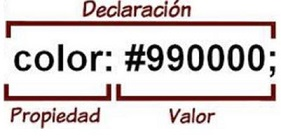
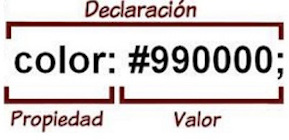
commit 3 PEC2

diff --git a/html.html b/html.html
@@ -138,33 +138,39 @@
           <div class="row">
             <p>Una página HTML se dividirá en bloques que vienen definidos por <strong>etiquetas</strong> y es el
             propio explorador el que es capaz de interpretar las etiquetas para mostrarlas y darle el formato necesario.</p>
-            <img src="./img/sintaxisHTML.JPG" alt="Sintaxis HTML" class="d-block mx-auto">
+            <img src="./img/sintaxisHTML.JPG" alt="Sintaxis HTML" class="d-block mx-auto img-fluid">
 
           </div>
           <br>
           <div class="row">
             <p>El esqueleto de una página en HTML5 es:</p>
-            <img src="./img/esqueletoHTML.JPG" alt="Esqueleto de una página HTML5" class="d-block mx-auto">
+            <picture class="d-block mx-auto img-fluid" >
+              <source srcset="./img/esqueletoHTML400.JPG" media="(min-width: 768px)">
+                <source srcset="./img/esqueletoHTML320.JPG" media="(min-width: 576px)">
+                  <source srcset="./img/esqueletoHTML200.JPG" media="(max-width: 576px)">
+              <img src="./img/esqueletoHTML400.JPG" alt="Esqueleto de una página HTML5" class="d-block mx-auto img-fluid" />
+            </picture>
+            
           </div>
           <div class="row">
               <p>Un ejemplo de código en HTML5:</p>
               <pre>
-                        <code
-                          >&lt!DOCTYPE html>
-                          &lthtml lang="es">
-                          &lthead>
-                            &ltmeta charset="utf-8" />
-                            &ltmeta name="viewport" content="width=device-width, initial-scale=1.0"/>
-                            &lttitle>Ejemplo de HTML5</title>
-                          &lt/head>
+<code
+  >&lt!DOCTYPE html>
+  &lthtml lang="es">
+  &lthead>
+    &ltmeta charset="utf-8" />
+    &ltmeta name="viewport" content="width=device-width, initial-scale=1.0"/>
+    &lttitle>Ejemplo de HTML5</title>
+  &lt/head>
 
-                          &ltbody>
-                            &lth1>Esto es un título</h1>
-                            &ltp>Esto es un párrafo</p>
-                          &lt/body>
-                          &lt/html>
-                        </code>
-                      </pre>
+  &ltbody>
+    &lth1>Esto es un título</h1>
+    &ltp>Esto es un párrafo</p>
+  &lt/body>
+  &lt/html>
+</code>
+</pre>
           </div>
           
         </article>

diff --git a/less.html b/less.html
@@ -105,7 +105,7 @@
         <article class="col-sm-8 text-justify">
           <h2 class="text-center"><strong>LESS</strong></h2>
           <div class="row">
-            <div class="col-sm-2">
+            <div class="col-sm-4 col-md-3">
               <img
                 class="mx-auto d-block zoom"
                 title="Unknown author / Public domain"
@@ -114,7 +114,7 @@
                 src="./img/LESS_Logo.svg"
               />
             </div>
-            <div class="col-sm-10">
+            <div class="col-sm-8 col-md-9 text-justify">
               <p>
                 <dfn><abbr title="Leaner Style Sheets">LESS</abbr></dfn> es un
                 preprocesador CSS diseñado para hacer CSS más fácil de mantener,
@@ -137,12 +137,25 @@
           </div>
           <div>
             <p>Ejemplo de variables en Less:</p>
-
-            <img
-              src="./img/variablesLess.jpg"
-              alt="Código de variables en Less"
-              class="mx-auto d-block captura-codigo"
-            />
+            <picture class="d-block mx-auto img-fluid">
+              <source
+                srcset="./img/variablesLess450.jpg"
+                media="(min-width: 768px)"
+              />
+              <source
+                srcset="./img/variablesLess360.jpg"
+                media="(min-width: 576px)"
+              />
+              <source
+                srcset="./img/variablesLess250.jpg"
+                media="(max-width: 576px)"
+              />
+              <img
+                src="./img/variablesLess450.jpg"
+                alt="Código de variables en Less"
+                class="d-block mx-auto img-fluid"
+              />
+            </picture>
           </div>
         </article>
         <div class="col-sm-1"></div>

diff --git a/javascript.html b/javascript.html
@@ -162,17 +162,32 @@
               <img
                 src="./img/BEich.jpg"
                 alt="Retrato de Brendan Eich"
-                class="rounded-circle mx-auto d-block"
+                class="rounded-circle mx-auto d-block img-fluid"
                 title="Brendan Eich"
               />
             </div>
           </div>
           <div>
             <p>Un ejemplo de código JavaScript embebido en una página HTML</p>
-            <img
-              src="./img/sintaxisJS.JPG"
-              alt="Ejemplo de código en JavaScript"
-            />
+            <picture class="d-block mx-auto img-fluid">
+              <source
+                srcset="./img/sintaxisJS490.JPG"
+                media="(min-width: 768px)"
+              />
+              <source
+                srcset="./img/sintaxisJS430.JPG"
+                media="(min-width: 576px)"
+              />
+              <source
+                srcset="./img/sintaxisJS260.JPG"
+                media="(max-width: 576px)"
+              />
+              <img
+                src="./img/sintaxisJS490.JPG"
+                alt="Ejemplo de código en JavaScript"
+                class="d-block mx-auto img-fluid"
+              />
+            </picture>
           </div>
         </article>
         <div class="col-sm-1"></div>

diff --git a/sass.html b/sass.html
@@ -157,11 +157,25 @@
           </div>
           <div>
             <p>Ejemplo de variables en Sass:</p>
-            <img
-              src="./img/variablesSass.jpg"
-              alt="Código de variables en Sass"
-              class="mx-auto d-block captura-codigo"
-            />
+            <picture class="d-block mx-auto img-fluid">
+              <source
+                srcset="./img/variablesSass600.jpg"
+                media="(min-width: 768px)"
+              />
+              <source
+                srcset="./img/variablesSass480.jpg"
+                media="(min-width: 576px)"
+              />
+              <source
+                srcset="./img/variablesSass250.jpg"
+                media="(max-width: 576px)"
+              />
+              <img
+                src="./img/variablesSass600.jpg"
+                alt="Código de variables en Sass"
+                class="d-block mx-auto img-fluid"
+              />
+            </picture>
           </div>
         </article>
         <div class="col-sm-1"></div>

diff --git a/css.html b/css.html
@@ -178,7 +178,25 @@
             />
             <br />
             <p>Un <strong> ejemplo de hoja de estilos</strong>:</p>
-            <img src="./img/ejemploCSS.JPG" alt="Ejemplo de hoja de estilos" />
+            <picture class="d-block mx-auto img-fluid">
+              <source
+                srcset="./img/ejemploCSS450.JPG"
+                media="(min-width: 768px)"
+              />
+              <source
+                srcset="./img/ejemploCSS360.JPG"
+                media="(min-width: 576px)"
+              />
+              <source
+                srcset="./img/ejemploCSS288.JPG"
+                media="(max-width: 576px)"
+              />
+              <img
+                src="./img/ejemploCSS450.JPG"
+                alt="Ejemplo de hoja de estilos"
+                class="d-block mx-auto img-fluid"
+              />
+            </picture>
           </div>
         </article>
         <div class="col-sm-1"></div>
